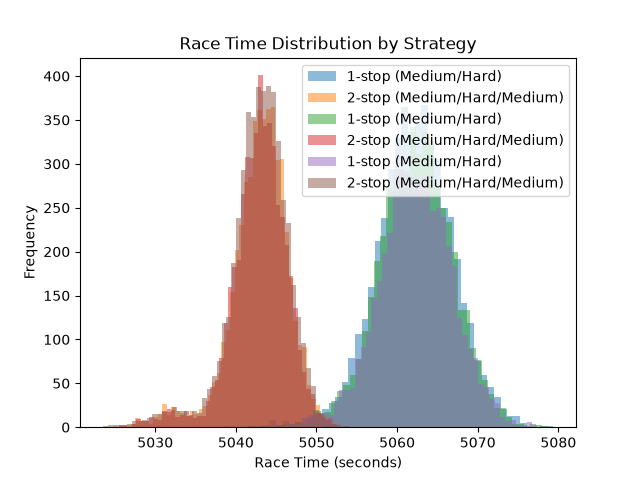
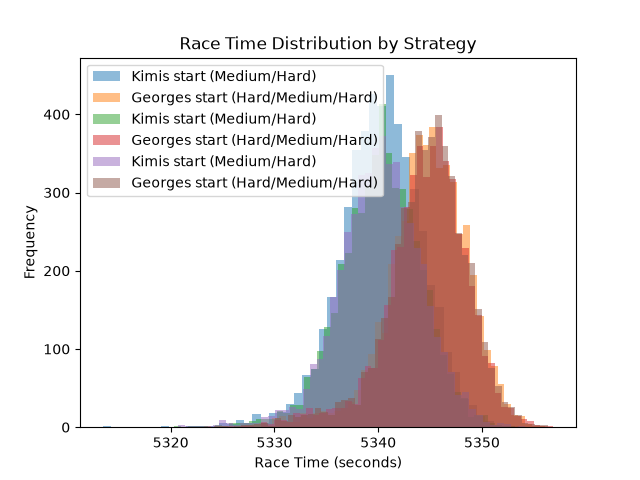
added non liner tire degridation to the tires

diff --git a/src/race.py b/src/race.py
@@ -11,19 +11,14 @@ from tracks import TRACKS
 
 import random
 
-
-
-# --- Step 2.2 will import COMPOUNDS and lap_time from tires.py here.
-
-# --- Step 2.2-2.4 will build up a throwaway script below the import.
-
 rng = random.Random(0)  # a controlled source of randomness, seeded with 0
 
 
+FUEL_EFFECT_PER_LAP = 0.05   # seconds faster per lap of fuel already burned
 
-#PIT_STOP_MEAN = 22.0 #the average time it takes to make a pit stop, in seconds
-
-#PIT_STOP_STDDEV = 1.5 #the standard deviation of the pit stop time, in seconds
+TRAFFIC_WINDOW_FRACTION = (0.35, 0.65) # the fraction of the race where traffic is most likely to occur (e.g. 0.35 = 35% of the way through the
+TRAFFIC_PENALTY_MEAN = 3.0 # seconds added to the lap time if traffic occurs
+TRAFFIC_PENALTY_STD = 1.5 # standard deviation of the traffic penalty (for randomness)
 
 def simulate_race(strategy, rng, chosen_track, safety_car_lap=None, ):
     total_time = 0.0 # time when the race starrs at 0.0 seconds 
@@ -33,11 +28,15 @@ def simulate_race(strategy, rng, chosen_track, safety_car_lap=None, ):
         pit_loss_mean = 22.0
     else:
         pit_loss_mean = chosen_track["pit_loss_mean"]
+
+    
+    traffic_start = chosen_track["laps"] * TRAFFIC_WINDOW_FRACTION[0]
+    traffic_end = chosen_track["laps"] * TRAFFIC_WINDOW_FRACTION[1]    
     
     for i, (compound_name, stint_length) in enumerate(strategy): # a for loop to iterate through the strategy list
         compound = COMPOUNDS[compound_name] # a variable that refrences the compound dictionary in tires.py from the tulpe in stratgey 
         for tire_age in range(stint_length): # a for loop to iterate through the stint length of the strategy list
-            total_time += lap_time(compound,tire_age, rng) #adds the time of each lap to the total time,
+            total_time += lap_time(compound,tire_age, rng) - FUEL_EFFECT_PER_LAP * race_lap #adds the time of each lap to the total time,and subtract it based on the fuel effect per lap and the current race lap number, using
             #using the lap_time function from tires.py
             race_lap += 1 # increments the race lap number
 
@@ -48,7 +47,11 @@ def simulate_race(strategy, rng, chosen_track, safety_car_lap=None, ):
                 pit_stop_time = rng.gauss(pit_loss_mean / 2, chosen_track["pit_loss_stddev"]) # a variable that generates a random pit stop time using a Gaussian distribution with half the mean and the standard deviation defined above
             else: # if the current lap is not the same as the safety car lap, add a pit stop time to the total time
                 pit_stop_time = rng.gauss(pit_loss_mean, chosen_track["pit_loss_stddev"]) # a variable that generates a random pit stop time using a Gaussian distribution with the mean and standard deviation defined above
+
+            if traffic_start <= race_lap <= traffic_end:
+                pit_stop_time += rng.gauss(TRAFFIC_PENALTY_MEAN, TRAFFIC_PENALTY_STD)    
             total_time += pit_stop_time # adds the pit stop time to the total time
+
           
     laps_match = race_lap == chosen_track["laps"]
 
@@ -59,8 +62,8 @@ def simulate_race(strategy, rng, chosen_track, safety_car_lap=None, ):
         return total_time
 
 
-#print(simulate_race([("Hard", 3),("Medium", 25), ("Medium", 25)], rng, TRACKS["Italy"])) # a list of tuples that represent the tire compound and the number of laps to run on that compound
-#print(simulate_race([("Medium", 3), ("Hard", 50)], rng, TRACKS["Italy"]))
+print(simulate_race([("Hard", 3),("Medium", 25), ("Medium", 25)], rng, TRACKS["Italy"])) # a list of tuples that represent the tire compound and the number of laps to run on that compound
+print(simulate_race([("Medium", 3), ("Hard", 50)], rng, TRACKS["Italy"]))
 
 
 # --- Step 2.5 will wrap that script into a reusable simulate_race()

diff --git a/src/compare_strategies.py b/src/compare_strategies.py
@@ -14,13 +14,15 @@ import matplotlib.pyplot as plt
 
 from monte_carlo import run_monte_carlo, summarize
 from tracks import TRACKS
+import statistics
+import time
 
 # TODO: define at least two candidate strategies to compare, e.g. a 1-stop
 # and a 2-stop. Make sure the lap counts in each strategy sum to the same
 # total (so comparisons are fair) — pick a race distance, e.g. 57 laps.
 STRATEGIES = {
-     "1-stop (Medium/Hard)": [("Medium", 3), ("Hard", 50)],
-     "2-stop (Medium/Hard/Medium)": [("Medium", 3), ("Hard", 25), ("Medium", 25)],
+     "Kimis start)": [("Medium", 14), ("Hard", 43)],
+     "Georges start": [("Hard", 14), ("Medium", 14), ("Hard", 29)],
 }
 
 N_SIMULATIONS = 5000
@@ -32,8 +34,10 @@ def main():
    
     #   1. For each strategy: run_monte_carlo(), store results, print
     #      summarize() output.
-        stat1_results = run_monte_carlo(STRATEGIES["1-stop (Medium/Hard)"], n_simulations=N_SIMULATIONS, chosen_track=TRACKS["Italy"], safety_car_probability=0.25, seed=None)
-        stat2_results = run_monte_carlo(STRATEGIES["2-stop (Medium/Hard/Medium)"], n_simulations=N_SIMULATIONS, chosen_track=TRACKS["Italy"], safety_car_probability=0.25, seed=None)
+        chosen_track=TRACKS["Madring"]
+
+        stat1_results = run_monte_carlo(STRATEGIES["Kimis start)"], n_simulations=N_SIMULATIONS, chosen_track=chosen_track, safety_car_probability=0.25, seed=None)
+        stat2_results = run_monte_carlo(STRATEGIES["Georges start"], n_simulations=N_SIMULATIONS, chosen_track=chosen_track, safety_car_probability=0.25, seed=None)
 
         print(summarize('1-stop', stat1_results))
         print(summarize('2-stop', stat2_results))
@@ -46,18 +50,25 @@ def main():
             else:
                 stat2_wins += 1
 
-        print(f"1-stop wins: {stat1_wins}")
-        print(f"2-stop wins: {stat2_wins}")        
+        print(f"Kimis: {stat1_wins}")
+        print(f"Georges: {stat2_wins}")    
+
+        Kimis_best = time.strftime("%H:%M:%S", time.gmtime(min(stat1_results)))
+        Georges_best = time.strftime("%H:%M:%S", time.gmtime(min(stat2_results)))
+
+        print(f"kimis best time: {Kimis_best}")
+        print(f"georges best time: {Georges_best}")    
     #   3. Plot overlapping histograms of each strategy's results with
     #      matplotlib and save to strategy_comparison.png.
         ax = plt.subplot(111)
-        ax.hist(stat1_results, bins=50, alpha=0.5, label="1-stop (Medium/Hard)")
-        ax.hist(stat2_results, bins=50, alpha=0.5, label="2-stop (Medium/Hard/Medium)")
+        ax.hist(stat1_results, bins=50, alpha=0.5, label="Kimis start (Medium/Hard)")
+        ax.hist(stat2_results, bins=50, alpha=0.5, label="Georges start (Hard/Medium/Hard)")
         ax.set_xlabel("Race Time (seconds)")
         ax.set_ylabel("Frequency")
         ax.set_title("Race Time Distribution by Strategy")
         ax.legend()
-        plt.savefig("strategy_comparison.png")  
+        plt.savefig("strategy_comparison.png") 
+       
         
 
 

diff --git a/src/tires.py b/src/tires.py
@@ -27,9 +27,31 @@ while.
 #     just one compound.
 # --- Step 1.5 will add randomness (this is the part that makes it a
 #     "Monte Carlo" simulation later).
-SOFT = {"name": "Soft", "base_lap_time": 92.0, "degradation_per_lap": 0.15}
-MEDIUM = {"name": "Medium", "base_lap_time": 93.0, "degradation_per_lap": 0.10}
-HARD = {"name": "Hard", "base_lap_time": 94.0, "degradation_per_lap": 0.05}
+SOFT = { "name": "Soft", 
+         "base_lap_time": 92.0, 
+         "degradation_per_lap": 0.15, 
+         "cliff_age": 15, 
+         "cliff_degradation_per_lap": 0.45,
+         "warmup_laps": 1,
+         "warmup_degradation_per_lap": 0.8
+
+         }
+MEDIUM = { "name": "Medium", 
+          "base_lap_time": 93.0, 
+          "degradation_per_lap": 0.10, 
+          "cliff_age": 25, 
+          "cliff_degradation_per_lap": 0.30,
+          "warmup_laps": 2,
+          "warmup_degradation_per_lap": 1.0
+          }
+HARD = { "name": "Hard",
+         "base_lap_time": 94.0, 
+         "degradation_per_lap": 0.05,
+         "cliff_age": 35, 
+         "cliff_degradation_per_lap": 0.15,
+         "warmup_laps": 3,
+         "warmup_degradation_per_lap": 1.2
+         }
 
 COMPOUNDS = {
     "Soft": SOFT,
@@ -38,9 +60,24 @@ COMPOUNDS = {
 }
 
 def lap_time(compound, tire_age_laps, rng):
-    predictable_part = compound["base_lap_time"] + compound["degradation_per_lap"] * tire_age_laps
+
+
+    if tire_age_laps <= compound["cliff_age"]:
+        predictable_part = compound["base_lap_time"] + compound["degradation_per_lap"] * tire_age_laps
+    else:
+        predictable_part = compound["base_lap_time"] + compound["degradation_per_lap"] * compound["cliff_age"] + compound["cliff_degradation_per_lap"] * (tire_age_laps - compound["cliff_age"])
+
+      # Tyre warm-up
+    if tire_age_laps < compound["warmup_laps"]:
+        warmup_extra = compound["warmup_degradation_per_lap"] * (1 - tire_age_laps / compound["warmup_laps"])
+    else:
+        warmup_extra = 0.0
+
+
+    predictable_part += warmup_extra
     noise_size = 0.02 * max(tire_age_laps, 1) # Standard deviation of the noise
     noise = rng.gauss(0, noise_size)  # Generate random noise
+
     return predictable_part + noise  # Add noise to the predictable part
     #first perameter refrence back to the dictionary for the 
     #base lap time and degrataion, and lap age is written by the user to determine 
@@ -51,4 +88,5 @@ def lap_time(compound, tire_age_laps, rng):
 #a controlled source of randomness, seeded with 0
 #print(rng.gauss(0, 1))
 #a random number centered on 0, "spread" of 1
+
 

diff --git a/src/monte_carlo.py b/src/monte_carlo.py
@@ -11,6 +11,7 @@ See GUIDE.md "Step 3" before writing this — it explains why we do this
 
 import random
 import statistics
+import time
 
 from race import simulate_race
 from tracks import TRACKS
@@ -38,6 +39,9 @@ def summarize(name, results):
    median_time = statistics.median(results)
    std_time = statistics.stdev(results)  
 
+
+   time_string = time.strftime("%H:%M:%S", time.gmtime(min(results)))
+
    p10 = sorted(results)[int(0.10 * len(results))]  # 10th percentile
    p90 = sorted(results)[int(0.90 * len(results))]  # 90th percentile
    percentile_range = p90 / p10
@@ -48,16 +52,18 @@ def summarize(name, results):
        "std": std_time,
        "p10": p10,
        "p90": p90,
-       "percentile": percentile_range
+       "percentile": percentile_range,
+       "best": time_string
+
       
    }
 
 
-"""
+
 choosen_track = TRACKS["Madring"]
-Startegy = [("Medium", 20), ("Hard", 37)]
+Startegy = [("Hard", 14), ("Medium", 14), ("Hard", 29)]
 stop1 = run_monte_carlo(Startegy, choosen_track, n_simulations=10, safety_car_probability=0.25, seed=None)
 print(len(stop1))
 print(summarize('1-stop', stop1))
-"""
+
 
